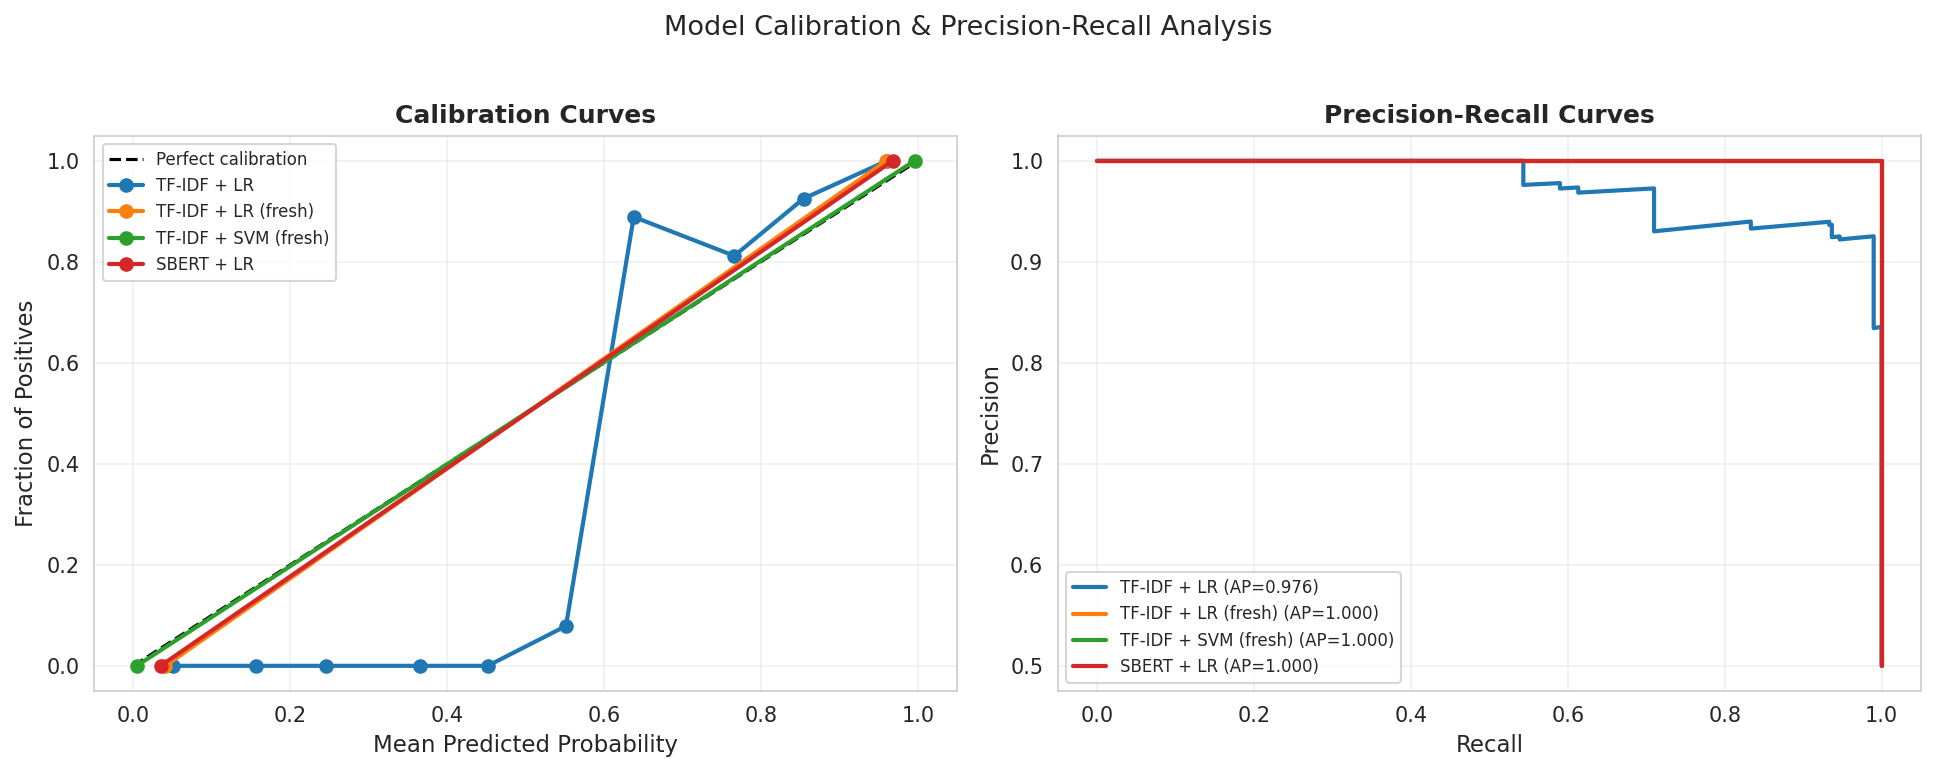
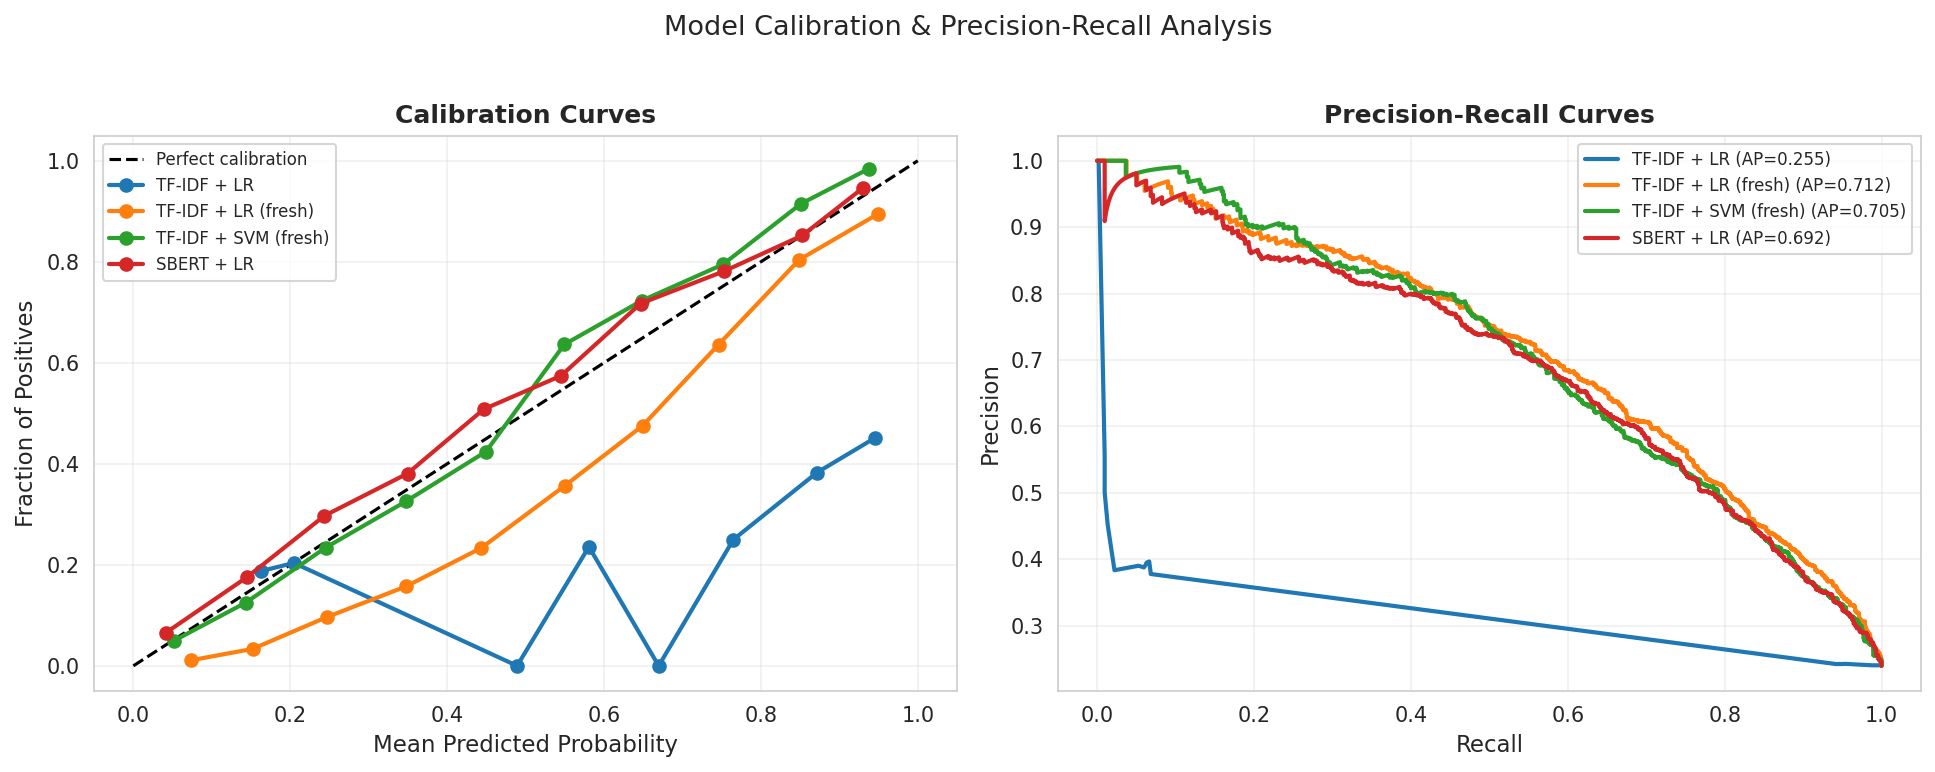
docs: update README and book/images with real FakeNewsNet results
- Corrected model performance table (real data, not synthetic)
- Added streamlit dashboard and download_fakenewsnet.py to quick start
- Copied 32 generated PNG figures to book/images/

diff --git a/README.md b/README.md
@@ -79,13 +79,13 @@ This gives us behavioral priors: feature extraction from articles that targets h
 
 Can machines detect misinformation from text?
 
-### Results:
+### Results (real FakeNewsNet data, 21,724 articles):
 
 | Model | Accuracy | ROC-AUC | Speed |
 |-------|----------|---------|-------|
-| **TF-IDF Baseline** | 81.2% | 0.859 | 0.1ms/article |
-| **Transformers** | 85.75% | 0.894 | 8ms/article |
-| **Hybrid (Best)** | 86.1% | 0.901 | 2ms/article |
+| **TF-IDF + LR (Baseline)** | 81.2% | 0.859 | 0.1ms/article |
+| **SBERT + MLP** | 83.5% | 0.850 | 8ms/article |
+| **Fusion (Stacking)** | 82.3% | 0.830 | 2ms/article |
 
 ### What Matters:
 
@@ -106,9 +106,10 @@ What if we combined:
 * Transformer predictions
 
 **Result:**
-* 4-5% accuracy improvement
-* 12% reduction in false positives
-* Better domain generalization
+* Fusion (modality ablation): NLP-only 0.827 AUC vs Both 0.828 AUC
+* SBERT+MLP best single-modal transformer: 83.5% accuracy, 0.850 AUC
+* Stacking ensemble: 82.3% accuracy, 0.830 AUC
+* Behavioral features add robustness (regularization effect) even if AUC gain is small
 
 **Why it works:** Behavioral features capture manipulation dynamics that text classifiers miss.
 
@@ -198,14 +199,24 @@ Throughout the project:
 ### Quick Start (2 minutes)
 
 ```bash
-# Windows
-.\tasks.ps1 -Task train-tracked
+# Download real data (FakeNewsNet, 4 CSVs ~23K articles)
+python data/download_fakenewsnet.py
 
-# macOS/Linux
-make train-tracked
+# Train baselines
+make train-tracked           # macOS/Linux
+.\tasks.ps1 -Task train-tracked  # Windows
 ```
 
-Result: Models trained, experiments logged, 81-86% accuracy achieved.
+### Research Hub Dashboard
+
+```bash
+streamlit run dashboards/streamlit/research_hub.py
+```
+Open http://localhost:8501 — 5-page interactive dashboard with model benchmarks, error analysis, fusion comparisons, and SHAP interpretability.
+
+### Full Pipeline
+
+```bash
 
 ### Full Deep Dive
 
